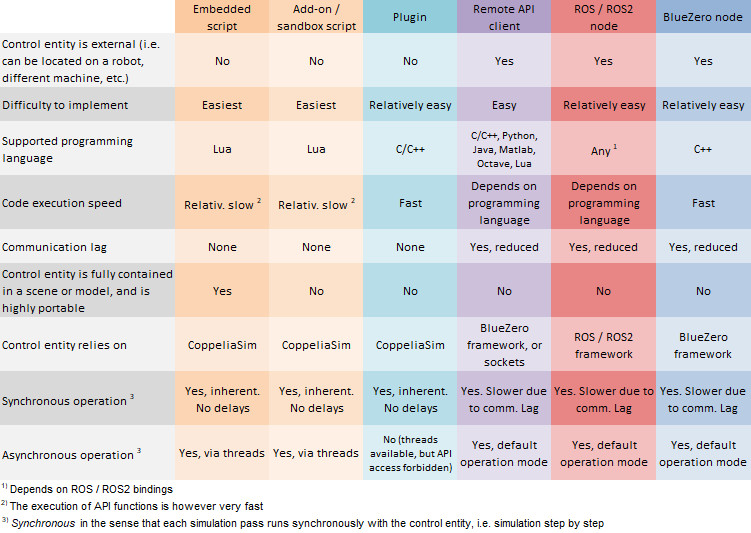
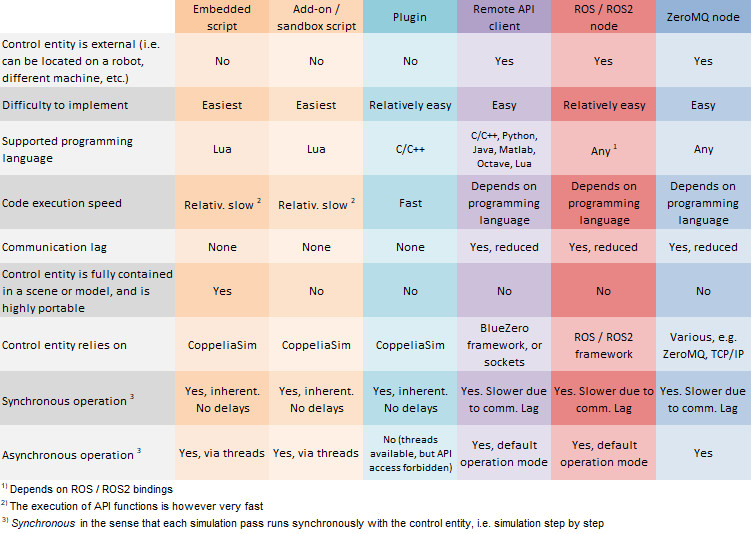
ZeroMQ rather BlueZero

diff --git a/en/objectParameterIDs.htm b/en/objectParameterIDs.htm
@@ -149,7 +149,7 @@
 <div><strong>sim.shapefloatparam_init_velocity_x (3000)</strong>: float parameter : x-component of the initial dynamic linear velocity of a dynamically enabled shape (static or non-static). The shape might have to be reset with <a href="regularApi/simResetDynamicObject.htm">sim.resetDynamicObject</a></div>
 <div><strong>sim.shapefloatparam_init_velocity_y (3001)</strong>: float parameter : y-component of the initial dynamic linear velocity of a dynamically enabled shape (static or non-static). The shape might have to be reset with <a href="regularApi/simResetDynamicObject.htm">sim.resetDynamicObject</a></div>
 <div><strong>sim.shapefloatparam_init_velocity_z (3002)</strong>: float parameter : z-component of the initial dynamic linear velocity of a dynamically enabled shape (static or non-static). The shape might have to be reset with <a href="regularApi/simResetDynamicObject.htm">sim.resetDynamicObject</a></div>
-<div><strong>sim.shapeintparam_static (3003)</strong>: int32 parameter : static state (0 or !=0). Use with care when setting this parameter</div>
+<div><strong>sim.shapeintparam_static (3003)</strong>: int32 parameter : static state (0 or !=0). Use with care when setting this parameter during simulation (the shape might have to be reset with <a href="regularApi/simResetDynamicObject.htm">sim.resetDynamicObject</a>)</div>
 <div><strong>sim.shapeintparam_respondable (3004)</strong>: int32 parameter : respondable state (0 or !=0). Use with care when setting this parameter during simulation (the shape might have to be reset with <a href="regularApi/simResetDynamicObject.htm">sim.resetDynamicObject</a>)</div>
 <div><strong>sim.shapefloatparam_mass (3005)</strong>: float parameter : mass of the shape. Use with care when setting this parameter during simulation (the shape might have to be reset with <a href="regularApi/simResetDynamicObject.htm">sim.resetDynamicObject</a>)</div>
 <div><strong>sim.shapefloatparam_texture_x (3006)</strong>: float parameter : texture x-coordinate. Has no effect when imported texture coordinates are used</div>

diff --git a/en/threadedAndNonThreadedCode.htm b/en/threadedAndNonThreadedCode.htm
@@ -27,7 +27,7 @@
 </td></tr></table> 
 
 <p>The entrance to a script is always originating from <a href="callbackFunctions.htm">callback functions</a> which are not running threaded, and should not be blocking. This means that every time they are called, they should perform some task and then return control. If control is not returned, then CoppeliaSim will halt. </p>
-<p>Non-threaded code runs faster than threaded code, since there is no overhead in handling the thread creation, switching or resume function. It is also has inherent synchronization  with the simulation loop.</p>
+<p>Non-threaded code runs faster than threaded code, since there is no overhead in handling the thread creation, switching or resume function. It also has inherent synchronization  with the simulation loop.</p>
 <br>
 
 
@@ -57,7 +57,7 @@ function sysCall_actuation()
 end
 
 function coroutineMain()
-    while true do
+    for i=1,100,1 do
         print('simulation time: ',sim.getSimulationTime())
     end
 end</pre>
@@ -80,7 +80,7 @@ end
 
 function coroutineMain()
     local savedLockLevel=sim.setThreadAutomaticSwitch(false) -- forbid automatic switches
-    while true do
+    for i=1,100,1 do
         print('simulation time: ',sim.getSimulationTime())
         sim.switchThread() -- resume in next simulation step
     end

diff --git a/en/writingCode.htm b/en/writingCode.htm
@@ -35,7 +35,7 @@
 <li>a <a href="rosInterfaces.htm">ROS node</a> (i.e. customizing the simulator and/or a simulation via a ROS node): this method allows an external application (e.g. located on a robot, another machine, etc.) to connect to CoppeliaSim via <a href="http://www.ros.org">ROS</a>, the Robot Operating System.</li>
 
 
-<li>a <a href="blueZeroPlugin.htm">BlueZero node</a> (i.e. customizing the simulator and/or a simulation via a BlueZero node): this method allows an external application (e.g. located on a robot, another machine, etc.) to connect to CoppeliaSim via <a href="https://github.com/CoppeliaRobotics/bluezero" target="_blank">BlueZero</a>.</li>
+<li>a node talking <a href="meansOfCommunication.htm#sockets">TCP/IP</a>, <a href="meansOfCommunication.htm#zmq">ZeroMQ</a>, etc.: this method allows an external application (e.g. located on a robot, another machine, etc.) to connect to CoppeliaSim via various communication means.</li>
 
 
 <p><a name="sixMethods" id="sixMethods"></a>
